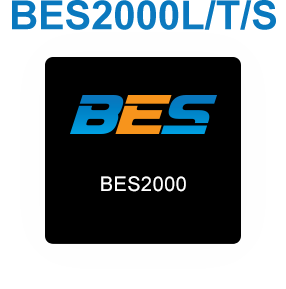
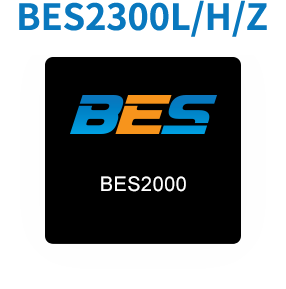
图

Changed region(s): [[0.028, 0.0, 0.979, 0.1246]]

diff --git a/src/views/detail/product.vue b/src/views/detail/product.vue
@@ -2,11 +2,15 @@
   <div class="detail">
     <div class="detail-left">
       <el-card class="box-card">
-        <carousel :starting-image="0" :images="images" :auto-slide-interval="3000"></carousel>
+        <carousel :starting-image="0" :images="images " :auto-slide-interval="3000"></carousel>
       </el-card>
     </div>
     <div class="detail-right">
-      <h1 class="right-title">BES2000U/A</h1>
+      <h1 class="right-title">
+        <span v-if="params === '0'"> BES2300L/H/Z</span>
+        <span v-else-if="params === '1'"> BES2000IS/Y</span>
+        <span v-else> WT-200M/S</span>
+      </h1>
       <p class="content">
         先进的CMOS工艺全集成包括射频，电源管理，音频以及Cortex-M4F MCU<br /> 支持Bluetooth® v4.2标准，A2DP v1.3/ACRCP v1.5/HFP v1.5<br /> 支持多端EQ调整，回声消除及重低音增强
         <br /> 最高支持400MHz的ARM Cortex-M4F MCU操作<br /> 片上支持8Mb Flash方便客户定制化程序开发<br /> 输入电压范围3.1V～5.5V
@@ -29,54 +33,65 @@ export default {
   },
   data() {
     return {
+      params: 0,
       images: [
         {
           id: "0",
-          big: "../../../static/images/product6.png",
-          thumb: "../../../static/images/product6.png"
+          big: "../../../static/images/product0.png",
+          thumb: "../../../static/images/product0.png"
         },
         {
           id: "1",
+          big: "../../../static/images/product1.png",
+          thumb: "../../../static/images/product1.png"
+        },
+        {
+          id: "2",
+          big: "../../../static/images/product2.png",
+          thumb: "../../../static/images/product2.png"
+        },
+        {
+          id: "3",
+          big: "../../../static/images/product3.png",
+          thumb: "../../../static/images/product3.png"
+        },
+        {
+          id: "4",
           big: "../../../static/images/product4.png",
           thumb: "../../../static/images/product4.png"
         },
         {
-          id: "2",
+          id: "5",
           big: "../../../static/images/product5.png",
           thumb: "../../../static/images/product5.png"
         },
         {
-          id: "3",
-          big: "../../../static/images/product8.png",
-          thumb: "../../../static/images/product8.png"
+          id: "6",
+          big: "../../../static/images/product6.png",
+          thumb: "../../../static/images/product6.png"
         },
         {
-          id: "4",
+          id: "7",
           big: "../../../static/images/product7.png",
           thumb: "../../../static/images/product7.png"
         },
-        // {
-        //   id: "5",
-        //   big: "../../../static/images/product7.png",
-        //   thumb: "../../../static/images/product7.png"
-        // },
-        // {
-        //   id: "6",
-        //   big: "../../../static/images/product7.png",
-        //   thumb: "../../../static/images/product7.png"
-        // },
-        // {
-        //   id: "7",
-        //   big: "../../../static/images/product7.png",
-        //   thumb: "../../../static/images/product7.png"
-        // },
-        // {
-        //   id: "8",
-        //   big: "../../../static/images/product7.png",
-        //   thumb: "../../../static/images/product7.png"
-        // }
+        {
+          id: "8",
+          big: "../../../static/images/product8.png",
+          thumb: "../../../static/images/product8.png"
+        }
       ]
     };
+  },
+  mounted() {
+    this.params = this.$route.params.id;
+    if (this.params === "0") {
+      this.images = this.images.slice(0, 3);
+    } else if (this.params === "1") {
+      this.images = this.images.slice(3, 6);
+    } else {
+      this.images = this.images.slice(6, 9);
+    }
   }
 };
 </script>

diff --git a/src/views/list/product.vue b/src/views/list/product.vue
@@ -6,7 +6,7 @@
       </div>
       <ul class="boxs-ul">
         <li v-for="(val,i) in products">
-          <router-link :to="'/product/detail/' + i">
+          <router-link :to="'/product/detail/' + 0">
             <div class="img-box">
               <img :src="'../../../static/images/'+ 'product'+i+'.png'">
             </div>
@@ -23,7 +23,7 @@
       </div>
       <ul class="boxs-ul">
         <li v-for="(val,i) in products1">
-          <router-link :to="'/product/detail/' + i">
+          <router-link :to="'/product/detail/' + 1">
             <div class="img-box">
               <img :src="'../../../static/images/'+ 'product'+(i+3)+'.png'">
             </div>
@@ -40,7 +40,7 @@
       </div>
       <ul class="boxs-ul">
         <li v-for="(val,i) in products2">
-          <router-link :to="'/product/detail/' + i">
+          <router-link :to="'/product/detail/' + 2">
             <div class="img-box">
               <img :src="'../../../static/images/'+ 'product'+(i+6)+'.png'">
             </div>

diff --git a/src/components/Carousel.vue b/src/components/Carousel.vue
@@ -153,8 +153,9 @@ export default {
 }
 
 .thumbnail-image > img {
-  width: 100%;
-  height: auto;
+  width: 100px;
+  height: 100px;
+  /* height: auto; */
   transition: all 250ms;
 }
 
